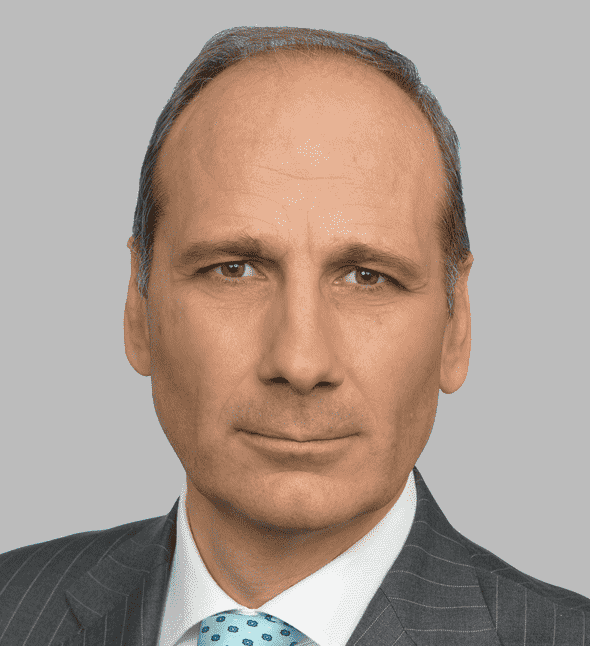
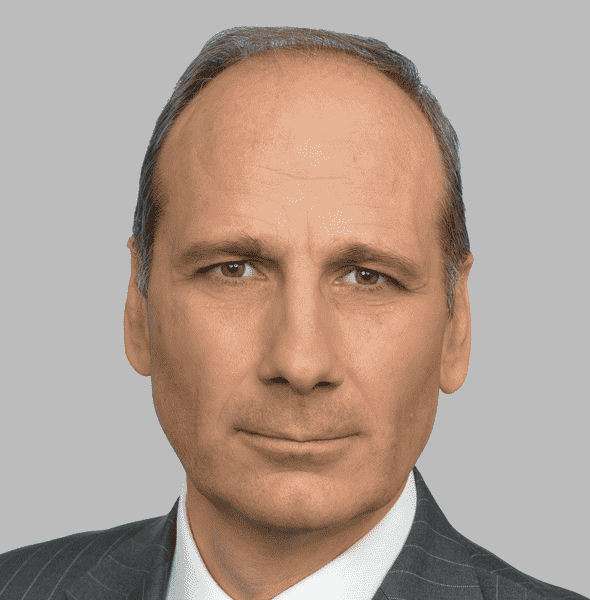
added ventures link

Changed region(s): [[0.0, 0.03, 1.0, 1.0], [0.7017, 0.93, 0.7322, 0.96]]

diff --git a/index.html b/index.html
@@ -89,7 +89,7 @@
     <div class="container my-auto">
       <div class="row">
         <div class="col-md-8 p-3 text-white">
-          <h2 class="mb-4">Our V-ision</h2>
+          <h1 class="mb-4">Our V-ision</h1>
           <p class="lead">
             <i>Like magnificent trees,&nbsp;</i>
             <br>
@@ -106,7 +106,7 @@
     <div class="container">
       <div class="row text-center">
         <div class="col-md-10 mx-auto px-4">
-          <h2 class="text-muted mb-4">What we do</h2>
+          <h1 class="mb-4 text-dark" contenteditable="true">What we do</h1>
           <div class="row text-left">
             <div class="p-3 col-lg-4 col-md-6">
               <div class="row mb-3">
@@ -156,7 +156,7 @@
     <div class="container">
       <div class="row">
         <div class="col-md-12">
-          <h2 class="text-muted">We provide tailored end-to-end support in business development.</h2>
+          <h2 class="text-dark">We provide tailored end-to-end support in business development.</h2>
         </div>
       </div>
       <div class="row">
@@ -239,14 +239,14 @@
       </div>
     </div>
   </div>
-  <div class="py-5 section bg-light">
+  <div class="section bg-light py-3">
     <div class="container p-3">
       <div class="row align-items-center mb-4">
         <div class="col-lg-3">
           <h2 class="mb-3">We've learned from the best</h2>
         </div>
         <div class="pl-lg-4 col-lg-8  mb-2">
-          <p class="lead mb-0 text-muted">We have more than 40 years of experiences in top consulting firms, marketing companies, fast growing start-ups and the world’s biggest venture builder. </p>
+          <p class="lead mb-0 text-dark">We have more than 40 years of experiences in top consulting firms, marketing companies, fast growing start-ups and the world’s biggest venture builder. </p>
         </div>
       </div>
       <div class="row">
@@ -268,14 +268,14 @@
       </div>
     </div>
   </div>
-  <div class="py-5 text-center" id="team">
+  <div class="text-center py-2" id="team">
     <div class="container">
       <div class="row">
         <div class="col-md-12"> </div>
       </div>
       <div class="row">
         <div class="col-md-12">
-          <h1 class="mb-4">The V-team</h1>
+          <h1 class="mb-4 text-dark">The V-team</h1>
         </div>
       </div>
       <div class="row">
@@ -342,7 +342,7 @@
         <div class="col-md-4 px-4 mb-4 col-6 px-lg-5">
           <a data-toggle="modal" data-target=".andreabuscaglia" href="">
             <div class="card project">
-              <img class="card-img rounded-circle" src="assets/Andrea Buscaglia 3.png" alt="Card image">
+              <img class="card-img rounded-circle" src="assets/Andrea Buscaglia.png" alt="Card image">
               <div class="card-body p-0">
                 <p class="mt-3 mb-1 serif">
                   <b>Andrea Buscaglia</b>
@@ -357,7 +357,7 @@
         <div class="col-md-4 px-4 mb-4 col-6 px-lg-5">
           <a data-toggle="modal" data-target=".annastiinasalminen" href="">
             <div class="card project">
-              <img class="card-img rounded-circle" src="assets/annastiina 2.jpg" alt="Card image">
+              <img class="card-img rounded-circle" src="assets/annastiina.jpg" alt="Card image">
               <div class="card-body p-0">
                 <p class="mt-3 mb-1 serif">
                   <b>Annastiina Salminen</b>
@@ -397,6 +397,94 @@
               <div class="card-body p-0"></div>
             </div>
           </a>
+        </div>
+      </div>
+    </div>
+  </div>
+  <div class="section bg-light py-2">
+    <div class="container p-3">
+      <div class="row">
+        <div class="col-md-12">
+          <h1 class="mb-4 text-dark text-center">Our V-entures</h1>
+        </div>
+      </div>
+      <div class="row align-items-center mb-4">
+        <div class="col-lg-3">
+          <h3 class="mb-3 text-center">Oak V philosophy</h3>
+        </div>
+        <div class="pl-lg-4 col-lg-8  mb-2">
+          <p class="lead mb-0 text-dark text-justify">We collaborate and work on high-potential businesses with different investment and risk profiles. All our ventures and companies are however leaders in their respective fields, bringing innovative technologies and solutions into established
+            markets.</p>
+        </div>
+      </div>
+      <div class="row">
+        <div class="col-md-4 py-3">
+          <a href="http://eba-med.com">
+            <img class="img-fluid d-block mx-auto p-3" src="assets/ebamed.PNG"> </a>
+          <a href="http://eba-med.com">
+            <h4 class="text-center text-dark">
+              <b>EBA-Med</b>
+            </h4>
+          </a>
+          <a href="http://eba-med.com">
+            <p class="text-justify text-dark">Innovative solutions for non-invasive and automated treatment of heart arrhythmias by using ion beams.</p>
+          </a>
+        </div>
+        <div class="col-md-4 py-3">
+          <a href="http://www.dixitsolutions.com">
+            <img class="img-fluid d-block mx-auto" src="assets/dixit_logo.png"> </a>
+          <a href="http://www.dixitsolutions.com">
+            <h4 class="text-center text-dark">
+              <b>diXit solutions</b>
+            </h4>
+          </a>
+          <a href="http://www.dixitsolutions.com">
+            <p class="text-justify text-dark">Network digital solutions for medical imaging.</p>
+          </a>
+        </div>
+        <div class="col-md-4 py-3">
+          <a href="https://swiss-limited.com">
+            <img class="img-fluid d-block mx-auto p-3" src="assets/SPL.PNG"> </a>
+          <a href="https://swiss-limited.com">
+            <h4 class="text-center text-dark">
+              <b>Swiss Partners ltd</b>
+            </h4>
+          </a>
+          <a href="https://swiss-limited.com">
+            <p class="text-justify text-dark">Create value through smart transaction, offering trading and investment solutions worldwide.</p>
+          </a>
+        </div>
+      </div>
+      <div class="row">
+        <div class="col-md-12"> </div>
+      </div>
+      <div class="row">
+        <div class="col-md-12"> </div>
+      </div>
+      <div class="row">
+        <div class="col-md-6"> </div>
+        <div class="col-md-6"> </div>
+      </div>
+      <div class="row">
+        <div class="col-md-12">
+          <div class="row">
+            <div class="col-md-4">
+              <div class="col-md-12 py-3">
+                <a href="http://oak-3d.com">
+                  <img class="img-fluid d-block p-3" src="assets/oak3d.PNG"> </a>
+                <a href="http://oak-3d.com">
+                  <h4 class="text-center text-dark">
+                    <b>Oak 3D visualization</b>
+                  </h4>
+                </a>
+                <a href="https://swiss-limited.com">
+                  <p class="text-justify text-dark">3D image visualizations to express the vision of architects, conquer the minds of audiences and illustrate brand concepts.</p>
+                </a>
+              </div>
+            </div>
+            <div class="col-md-4"></div>
+            <div class="col-md-4"></div>
+          </div>
         </div>
       </div>
     </div>
